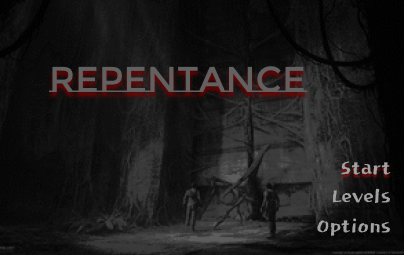
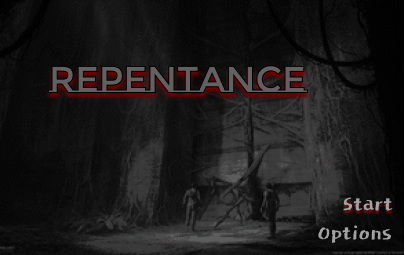
updated UI images + added sources

diff --git a/README.md b/README.md
@@ -110,12 +110,18 @@ First-person perspective where the player’s view is defined by the camera. The
     <img src="Images/first-person-game-turn.gif" width=300 height=150>
     <img src="Images/game-first-person-shooting.gif" width=300 height=150>
 </p>
+<p align="center">
+    <i>Gif: Counter-Strike 2 by Valve Corporation 2023 & Gif: Valorant by Riot Games 2020</i>
+</p>
 
 #### 3.1.1 The player's arms
 
 <p align="center">
     <img src="Images/Flashlight_Equip_Animation.gif" width=300 height=150>
     <img src="Images/player_arms.webp" width=300 height=150>
+</p>
+<p align="center">
+    <i>Gif: SCP: Secret Laboratory by Northwood Studios 2023 & Image: <a href="https://assetstore.unity.com/packages/3d/characters/fps-hands-horror-pack-249557">FPS Hands Horror Pack</a></i>
 </p>
 
 ### 3.2 Controls
@@ -131,15 +137,17 @@ First-person perspective where the player’s view is defined by the camera. The
 - E -> interact with game objects
 - shift + W/A/S/D -> sprint
 - F -> flashlight
+- Esc -> open game menu
 
 ### 3.3 Progression
 The player becomes trapped within the maze when the game begins and they must survive 5 minutes until the sun rises in order to win.
 The maze is broken into three main sections each containing different enemies. Each enemy has a different attack style and the player must avoid these enemies as one attack from any enemy will kill the player. 
-Throughout the maze the player will find tombstones that belong to the enemy. The player will have the opportunity to interact with the tombstone and destroy it. Destroying a tombstone will reveal part of the game's backstory, however it will anger the ghost and make the game more difficult for the player. The player will also come across different NPCs throughout the maze. The player can interact with the NPCs in the form of a conversation with multiple options that will have different impacts on the difficulty of the game. The game may become easier or harder for the player depending on the choices they make.
+Throughout the maze the player will find tombstones that belong to the enemy. The player will have the opportunity to interact with the tombstone, allowing them to uncover different parts of the backstory. The player will also come across different NPCs throughout the maze. The player can interact with the NPCs in the form of a conversation with multiple options that will have different impacts on the difficulty of the game. The game may become easier or harder for the player depending on the choices they make.
 
 ### 3.4 Gameplay Mechanics
 The player is able to walk (using WASD) or sprint (using WASD + shift). The sprint capability is limited by a stamina bar that is depleted and slowly refilled. Additionally, the player is able to use the F key to equip a flashlight in areas of the maze that are too dark for the player to be able to see in. The player will come across different tombstones and NPCs throughout the maze that they can interact with using the E key.
 The limitation of the sprint ability, along with the use of different light levels within the maze will make the game more challenging for the player.
+In order to make the game more engaging for multiple attempts, a different maze will be created in each run of the game.
 
 ## 4. Levels and World Design
 
@@ -257,12 +265,14 @@ In terms of utilising pre-built assets, they will typically be sourced from the 
 ## 6. User Interface
 
 ### 6.1 Start Screens
+The initial screen will allow the user to either begin the game or access the settings menu. Within the settings menu the player is able to alter screen brightness, game volume and the difficulty level. 
 <p align="center">
     <img src="Images/Main_Menu.png" width=400>
     <img src="Images/Options.png" width=400>
 </p>
 
 ### 6.2 In-Game Screens
+Whilst playing the game the player has a very limited UI. They are able to see their stamina display, represented by a blue bar, but that is all. This means majority of the players attention will be focused towards playing rather than trying to understand different displays. The player can access the in-game setitngs menu by pressing escape.
 <p align="center">
     <img src="Images/Game_UI.png" width=400>
     <img src="Images/Game_Menu.png" width=400>
